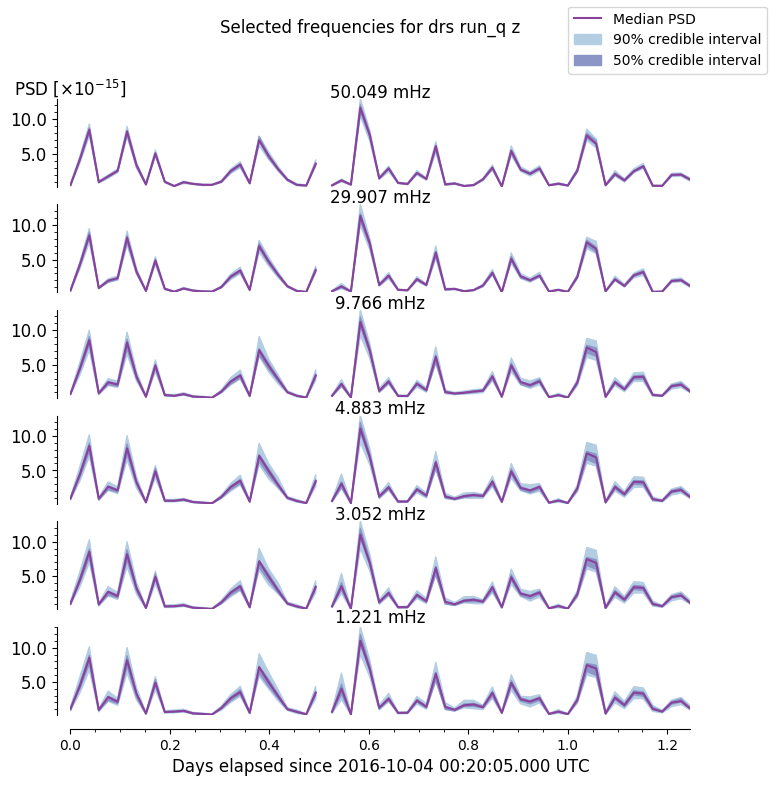
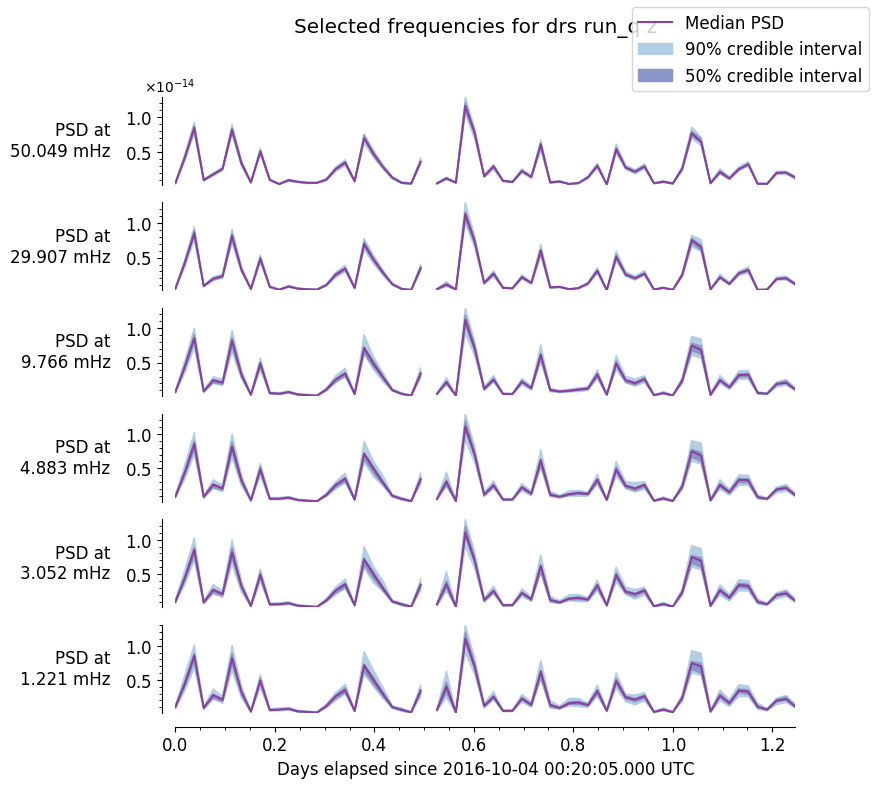
adjusted labels in frequency slice plots

Changed region(s): [[0.0, 0.0916, 0.9004, 1.0], [0.2794, 0.0, 0.9935, 0.1221]]

diff --git a/src/plot.py b/src/plot.py
@@ -204,11 +204,15 @@ def save_freq_slices(run, channel, frequencies, impacts=[], plot_file=None, show
     hspace = 2 # Relative spaceing between subplots
     impactplot_height = 1 # Relative height of the impacts subplot
     spine_pad = 10 # Spine offset from subplots
+    axlabelpad = 10 # Padding between axis label and spine
     # Font sizes
     ticklabelsize = 'large'
     axlabelsize = 'large'
     titlesize = 'x-large'
     legendsize = 'large'
+    # Labels and titles
+    plot_title = f'Selected frequencies for {run.mode} {run.name} {channel}'
+    xlabel = f'Days elapsed since {run.start_date} UTC'
     
     # Isolate given channel
     df = run.psd_summary.loc[channel]
@@ -229,20 +233,22 @@ def save_freq_slices(run, channel, frequencies, impacts=[], plot_file=None, show
     
     # Set up figure, grid
     fig = plt.figure(figsize=figsize)
-    grid_height = plot_height * len(frequencies) + impactplot_height * int(len(impact_days) > 0)
+    grid_height = plot_height * len(frequencies) + \
+            impactplot_height * int(len(impact_days) > 0)
     grid = plt.GridSpec(grid_height, 1, hspace=hspace)
-    fig.suptitle(f'Selected frequencies for {run.mode} {run.name} {channel}')
+    fig.suptitle(plot_title, fontsize=titlesize)
     
     # Subplots
     exp_old = 0 # Meaningless default exponent
     for i, freq in enumerate(frequencies):
         # Add new subplot
         ax = fig.add_subplot(grid[plot_height*i:plot_height*i+plot_height, 0])
+        ylabel = f'PSD at\n{np.around(freq*1000, 3)} mHz'
         
         # Set up DataFrames
         fslice = df.xs(freq, level='FREQ') # Frequency slice
         exp = int(np.floor(np.log10(fslice['MEDIAN'].median()))) # Get exponent
-        fslice = fslice / (10 ** exp) # Scale
+        #fslice = fslice / (10 ** exp) # Scale
         days_elapsed = run.gps2day(fslice.index) # Convert to days elapsed
         
         # Plot 90% credible interval
@@ -273,15 +279,17 @@ def save_freq_slices(run, channel, frequencies, impacts=[], plot_file=None, show
         ax.spines['bottom'].set_bounds(min(days_elapsed), max(days_elapsed))
         
         # Format left vertical axis
-        ax.yaxis.set_major_formatter(tkr.FormatStrFormatter('%.1f'))
+        #ax.yaxis.set_major_formatter(tkr.FormatStrFormatter('%.1f'))
+        ax.set_ylabel(ylabel, fontsize=axlabelsize, rotation=0, 
+                ha='right', va='center', labelpad=axlabelpad)
         ax.yaxis.set_minor_locator(tkr.AutoMinorLocator())
         ax.spines['left'].set_position(('outward', spine_pad))
         ax.tick_params(axis='y', which='major', labelsize=ticklabelsize)
-        # Only add a y-axis label if the exponent differs
-        if exp != exp_old:
-            ylabel = r'PSD [$\times 10^{%s}$]' % exp
-            ax.set_ylabel(ylabel, rotation=0, fontsize='large')
-            ax.yaxis.set_label_coords(0, 1)
+        # Only add an exponent label if it's different than above
+        ax.ticklabel_format(axis='y', useMathText=True)
+        ax.yaxis.get_offset_text().set_x(-0.005 * spine_pad)
+        if exp == exp_old:
+            ax.yaxis.get_offset_text().set_visible(False)
         exp_old = exp
         
         # Format bottom horizontal axis
@@ -294,11 +302,11 @@ def save_freq_slices(run, channel, frequencies, impacts=[], plot_file=None, show
             ax.xaxis.set_minor_locator(tkr.NullLocator())
         else:
             # Horizontal axis for bottom plot
-            ax.set_xlabel(f'Days elapsed since {run.start_date} UTC', 
-                    fontsize=axlabelsize)
+            ax.set_xlabel(xlabel, fontsize=axlabelsize)
             ax.spines['bottom'].set_visible(True)
             ax.spines['bottom'].set_position(('outward', spine_pad))
             ax.tick_params(bottom=True)
+            ax.tick_params(axis='x', which='major', labelsize=ticklabelsize)
             # Minor ticks
             ax.xaxis.set_minor_locator(tkr.AutoMinorLocator())
         
@@ -307,12 +315,12 @@ def save_freq_slices(run, channel, frequencies, impacts=[], plot_file=None, show
         ax.spines['top'].set_visible(False)
         
         # Subplot title
-        freq_label = str(np.around(freq*1000, 3)) + ' mHz'
-        ax.set_title(freq_label, loc='center', fontsize='large', pad=1)
+        #freq_label = str(np.around(freq*1000, 3)) + ' mHz'
+        #ax.set_title(freq_label, loc='center', fontsize='large', pad=1)
     
     # Make legend
     handles, labels = ax.get_legend_handles_labels()
-    fig.legend(handles, labels)
+    fig.legend(handles, labels, fontsize=legendsize)
     
     # Plot micrometeoroid impacts, if any
     if len(impact_days) > 0:
@@ -335,14 +343,6 @@ def save_freq_slices(run, channel, frequencies, impacts=[], plot_file=None, show
         ax.tick_params(bottom=True)
         # Minor ticks
         ax.xaxis.set_minor_locator(tkr.AutoMinorLocator())
-        '''
-        for time in impacts['GPS']:
-            day = run.gps2day(time)
-            lineheight = len(axes) + (len(axes) - 1) * hspace
-            ax.axvline(day, -hspace / 2., lineheight, color='r', clip_on=False)
-            #labely = ylim[0] - (ylim[1] - ylim[0]) * 0.15
-            #ax.text(day,  labely, run.gps2iso(time), fontsize='small')
-            '''
     
     # Save / display figure
     if plot_file: plt.savefig(plot_file, bbox_inches='tight')
